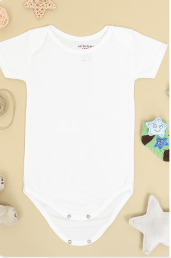
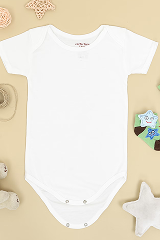
cập nhật responsive.css cho các break point khác nhau.

diff --git a/responsive.css b/responsive.css
@@ -1,47 +1,28 @@
-/* ============================================================
-   responsive.css — Desktop / App
-   Pages: index, cart, check-out, check-out-over-view,
-          check-out-complete, product-detail, login
-   Breakpoints: ≥1440 | ≤1200 | ≤1024 | ≤768 | ≤480 | ≤320
-   ============================================================ */
-
-/* ── Design tokens ── */
 :root {
     --page-max:    1030px;
     --page-pad:    clamp(12px, 3vw, 30px);
     --card-gap:    clamp(14px, 2vw, 24px);
     --radius-card: clamp(8px, 1.5vw, 16px);
 }
-
-/* ============================================================
-   BASE FIXES — sửa các giá trị cứng trong style.css gây vỡ
-   layout ở mọi breakpoint nhỏ hơn 1030px
-   ============================================================ */
-
-/* Cart items list: style.css đặt width: 1030px cứng → tràn màn hình */
 .cart-items-list {
     width: 100%;
 }
 
-/* Overview button group: style.css đặt width: 1030px cứng */
 .button-group-overview {
     width: 100%;
     max-width: var(--page-max);
 }
 
-/* Summary info: style.css đặt height: 320px cứng → nội dung bị cắt */
 .summary-info {
     height: auto;
 }
 
-/* Complete message: style.css đặt width/height cứng → tràn trên nhỏ */
 .site-complete-message,
 .site-complete-message p {
     width: auto;
     height: auto;
 }
 
-/* Complete content: căn giữa toàn bộ khối */
 .complete-content {
     display: flex;
     flex-direction: column;
@@ -51,44 +32,36 @@
     margin: 0 auto;
 }
 
-/* Complete button-back: căn giữa */
 .site-complete-button-back {
     justify-content: center;
 }
 
-/* Checkout form: style.css đặt width: 292px và height: 158px cứng */
 .checkout-form {
     width: 100%;
     max-width: 480px;
     height: auto;
 }
 
-/* Overview desc: style.css đặt width: 644px và height: 40px cứng */
 .cart-item-desc-overview {
     width: 100%;
     height: auto;
 }
 
-/* Detail desc: style.css đặt height: 40px cứng */
 .detail-desc {
     height: auto;
     max-height: none;
 }
 
-/* Detail price: height cứng 36px gây clip */
 .detail-price {
     height: auto;
 }
 
-/* ============================================================
-   ≥ 1440px — Large desktop
-   ============================================================ */
 @media (min-width: 1440px) {
 
     /* Index */
     .main-product-grid {
         width: min(1380px, 100%);
-        grid-template-columns: repeat(3, minmax(0, 1fr));
+        grid-template-columns: repeat(2, minmax(0, 1fr));
         gap: 28px;
         padding-inline: 40px;
     }
@@ -122,10 +95,6 @@
     .complete-content { max-width: 680px; }
 }
 
-
-/* ============================================================
-   ≤ 1200px — Medium desktop / large laptop
-   ============================================================ */
 @media (max-width: 1200px) {
 
     .main-product-grid,
@@ -151,10 +120,6 @@
     }
 }
 
-
-/* ============================================================
-   ≤ 1024px — Small laptop / tablet landscape
-   ============================================================ */
 @media (max-width: 1024px) {
 
     /* ── Global ── */
@@ -255,10 +220,6 @@
     .panel { padding: 48px 60px 36px; }
 }
 
-
-/* ============================================================
-   ≤ 768px — Tablet portrait / large phone landscape
-   ============================================================ */
 @media (max-width: 768px) {
 
     /* ── Global ── */
@@ -332,9 +293,16 @@
     .item-detail {
         display: flex;
         flex-direction: column;
-        justify-content: space-between;
+        justify-content: flex-start;
         gap: 4px;
         padding: 12px;
+    }
+    .item-top {
+        display: flex;
+        flex-direction: column;
+        gap: 10px;
+        flex: 0 0 auto;
+        margin-bottom: 20px;
     }
 
     .item-name { font-size: 17px; line-height: 24px; }
@@ -533,10 +501,6 @@
     }
 }
 
-
-/* ============================================================
-   ≤ 480px — Mobile
-   ============================================================ */
 @media (max-width: 480px) {
 
     /* ── Global ── */
@@ -548,13 +512,14 @@
     .sub-header { padding: 10px 12px; gap: 10px; }
     .title      { font-size: 20px; }
 
+    .menu-list { z-index: 1000; }
+
     .main-product-grid {
         padding: 0 12px 20px;
         gap: 12px;
         margin-top: 16px;
     }
 
-    /* Card ngang compact trên phone nhỏ */
     .main-item {
         flex-direction: row;
         min-height: 140px;
@@ -737,10 +702,6 @@
     .footer-copyrightright { padding-inline: 12px; }
 }
 
-
-/* ============================================================
-   ≤ 320px — Very small phones (Galaxy Fold outer, older)
-   ============================================================ */
 @media (max-width: 320px) {
 
     html { font-size: 14px; }
@@ -752,6 +713,8 @@
     /* ── Index ── */
     .sub-header { padding: 8px 10px; }
     .title      { font-size: 18px; }
+
+    .menu-list { z-index: 1000; }
 
     .main-product-grid {
         padding-inline: 8px;